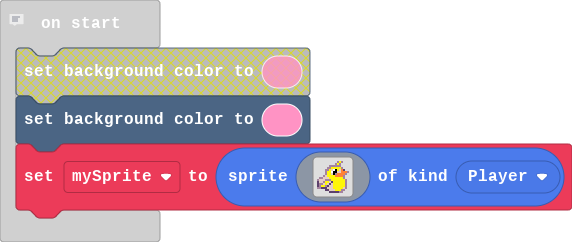
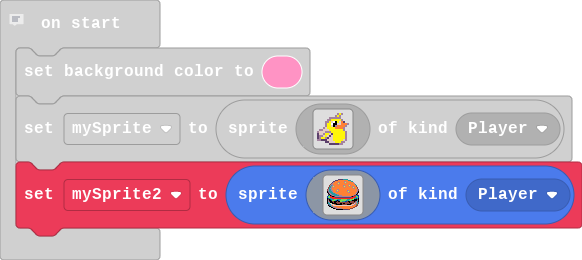
added hamburger sprite

diff --git a/main.ts b/main.ts
@@ -18,3 +18,37 @@ let mySprite = sprites.create(img`
     . . . . c c d d d 5 5 5 b b . . 
     . . . . . . c c c c c b b . . . 
     `, SpriteKind.Player)
+let mySprite2 = sprites.create(img`
+    ...........ccccc66666...........
+    ........ccc4444444444666........
+    ......cc444444444bb4444466......
+    .....cb4444bb4444b5b444444b.....
+    ....eb4444b5b44444b44444444b....
+    ...ebb44444b4444444444b444446...
+    ..eb6bb444444444bb444b5b444446..
+    ..e6bb5b44444444b5b444b44bb44e..
+    .e66b4b4444444444b4444444b5b44e.
+    .e6bb444444444444444444444bb44e.
+    eb66b44444bb444444444444444444be
+    eb66bb444b5b44444444bb44444444be
+    fb666b444bb444444444b5b4444444bf
+    fcb666b44444444444444bb444444bcf
+    .fbb6666b44444444444444444444bf.
+    .efbb66666bb4444444444444444bfe.
+    .86fcbb66666bbb44444444444bcc688
+    8772effcbbbbbbbbbbbbbbbbcfc22778
+    87722222cccccccccccccccc22226678
+    f866622222222222222222222276686f
+    fef866677766667777776667777fffef
+    fbff877768f86777777666776fffffbf
+    fbeffeefffeff7766688effeeeefeb6f
+    f6bfffeffeeeeeeeeeeeeefeeeeebb6e
+    f66ddfffffeeeffeffeeeeeffeedb46e
+    .c66ddd4effffffeeeeeffff4ddb46e.
+    .fc6b4dddddddddddddddddddb444ee.
+    ..ff6bb444444444444444444444ee..
+    ....ffbbbb4444444444444444ee....
+    ......ffebbbbbb44444444eee......
+    .........fffffffcccccee.........
+    ................................
+    `, SpriteKind.Player)
